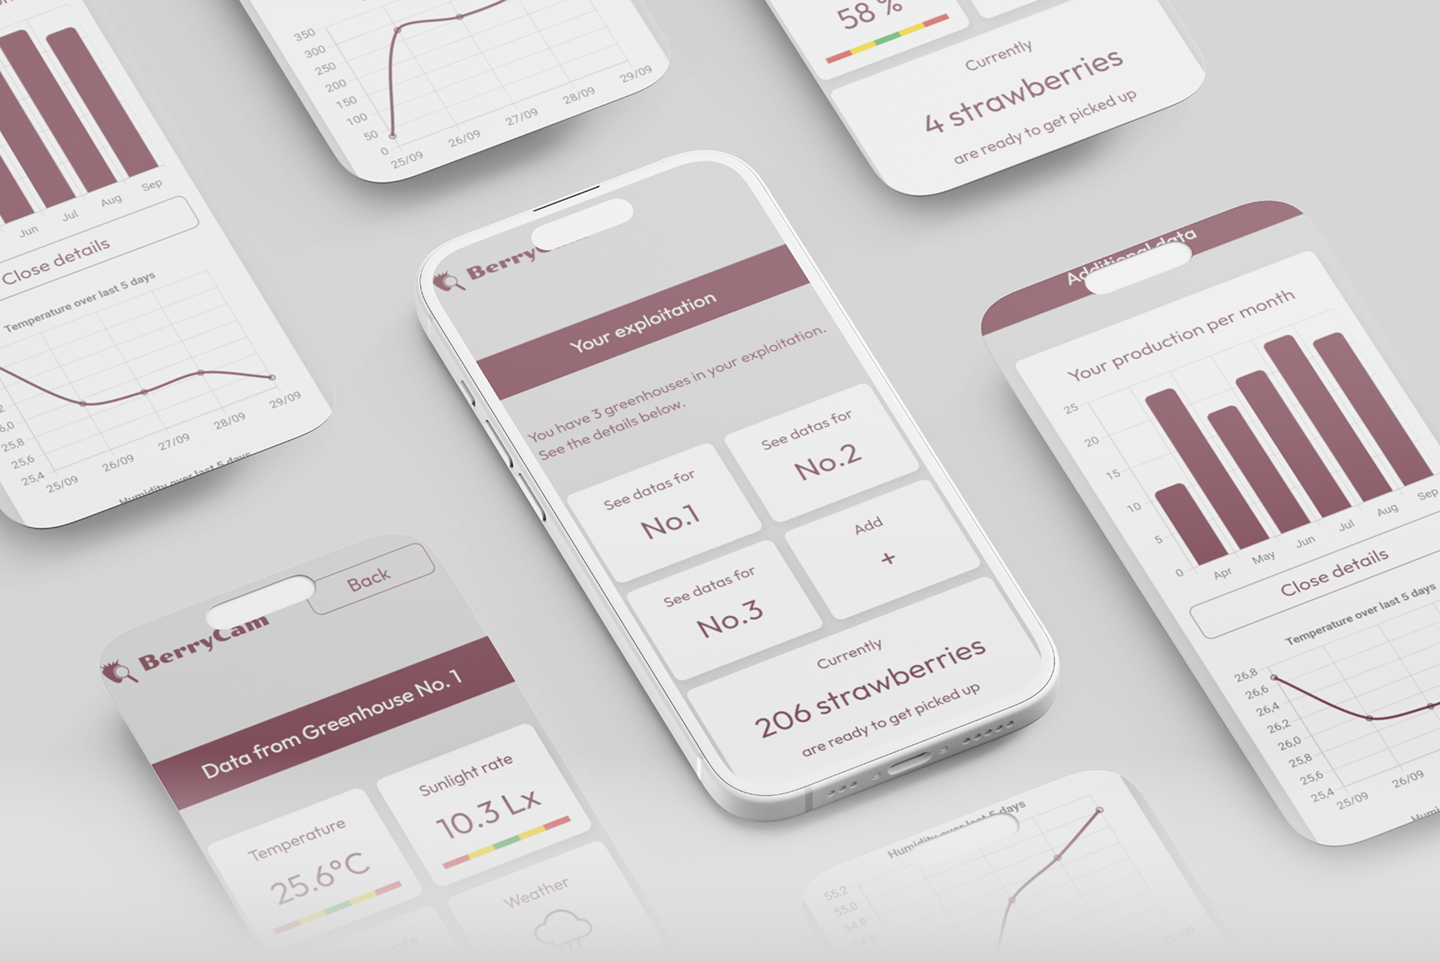
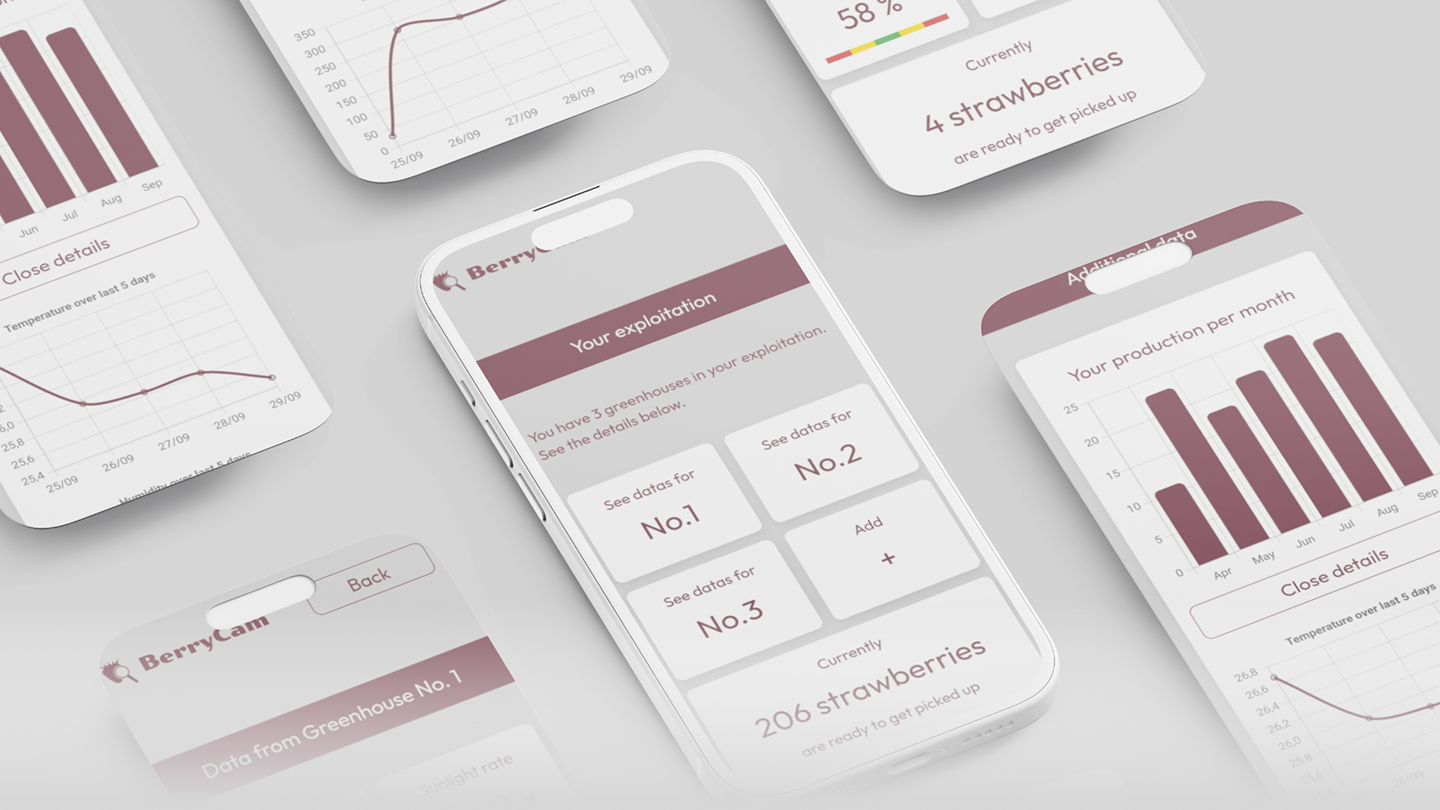
chgt header app + header--text remonté

diff --git a/tfe/app/app.css b/tfe/app/app.css
@@ -223,7 +223,7 @@ a, p, button, .p--basic{
 
 .head--text{
     position: absolute;
-    bottom: 10vh;
+    bottom: 35vh;
     left: 0;
     right: 0;
     padding: 10px;
@@ -535,7 +535,7 @@ a, p, button, .p--basic{
         color: #fafafa;
     }
 
-    .head--img__product{
+    .head--img__product, .head--img__app, .head--img__history{
         height: 120vh;
     }
 
